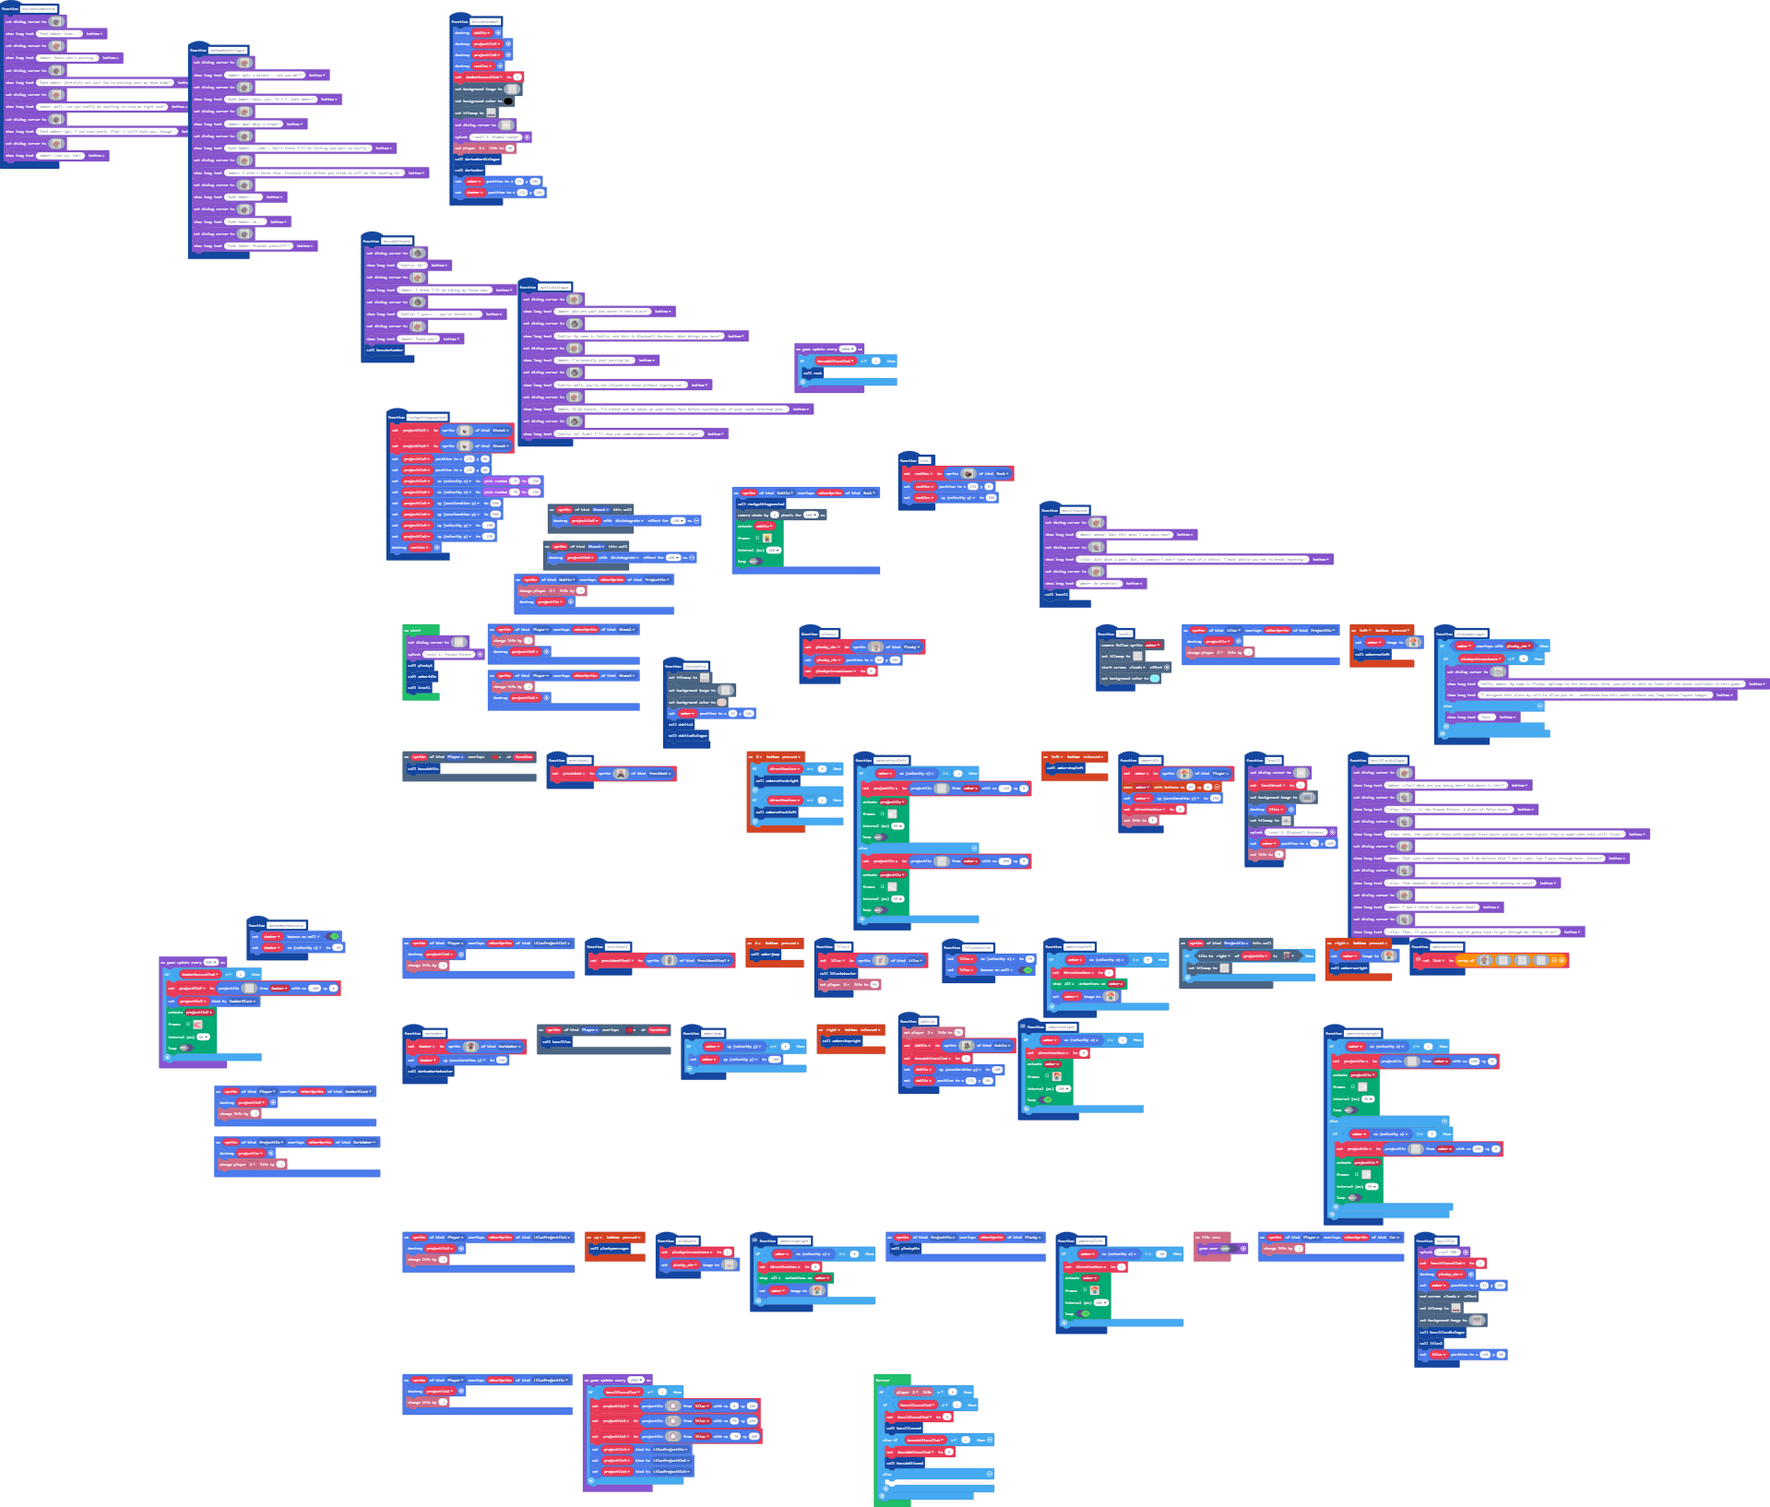
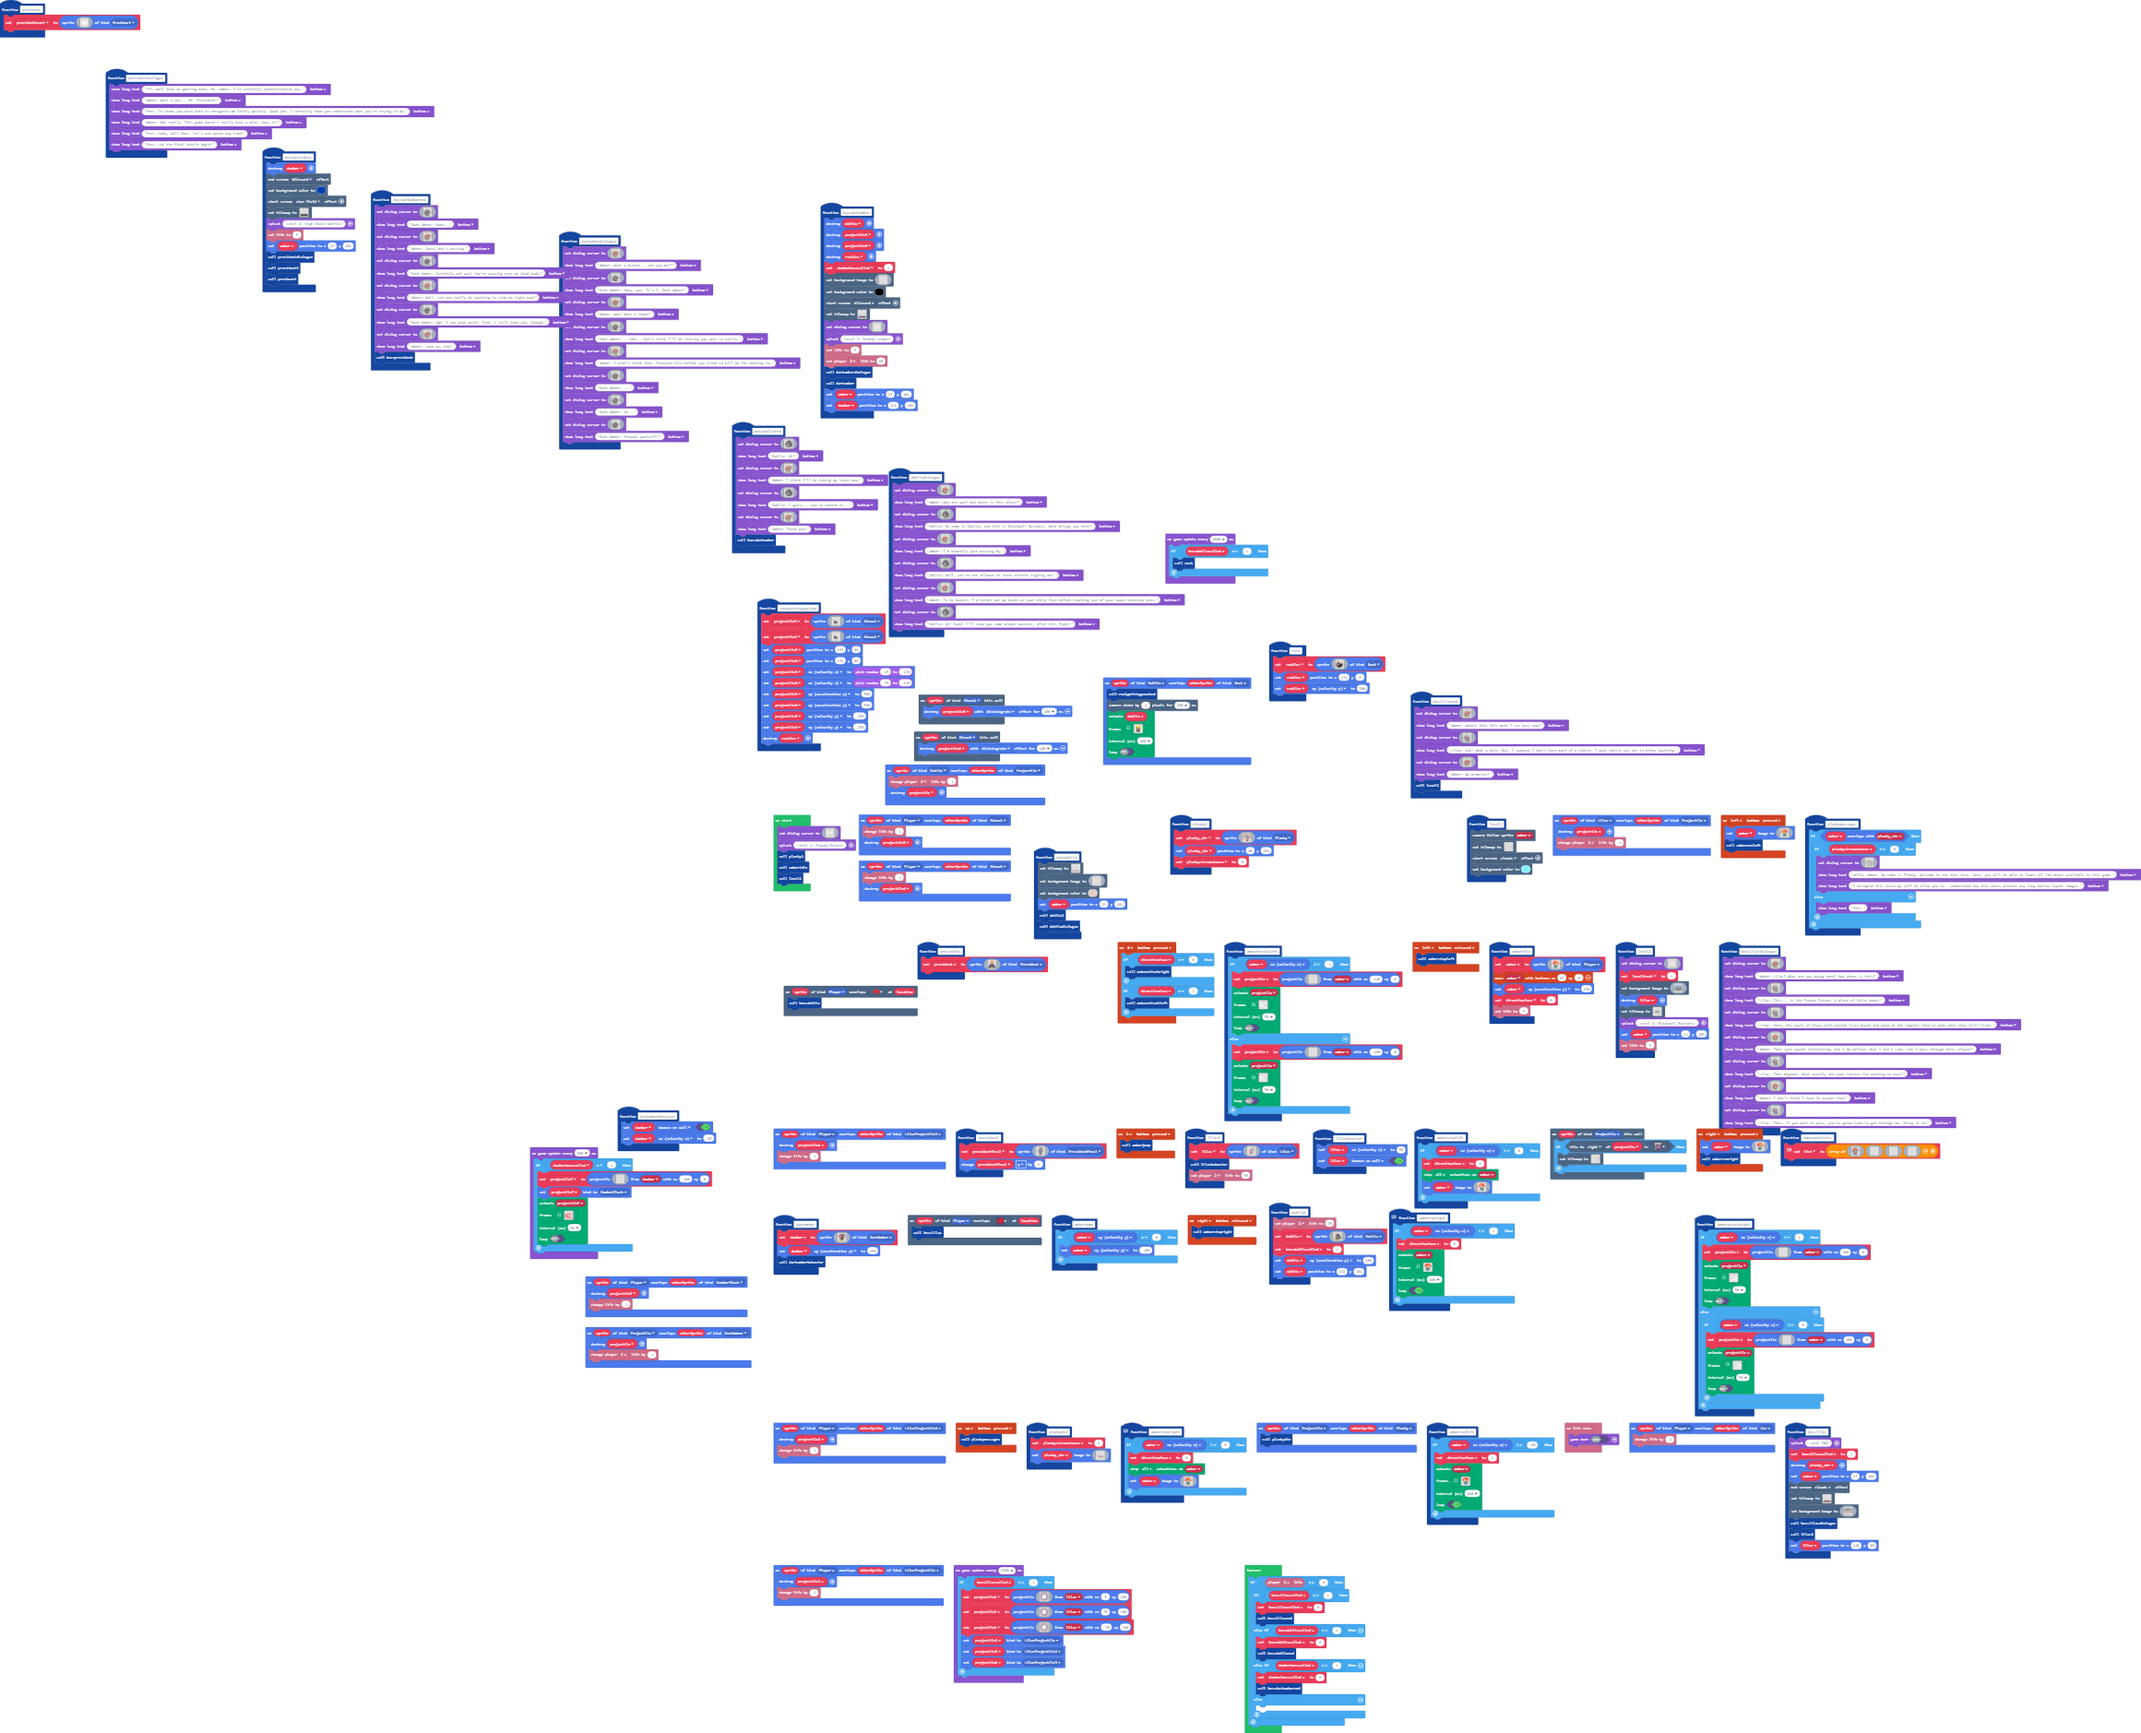
Update main.blocks, main.ts

Changed region(s): [[0.0, 0.0, 1.0, 1.0]]

diff --git a/main.ts b/main.ts
@@ -13,6 +13,7 @@ namespace SpriteKind {
     export const Stone1 = SpriteKind.create()
     export const Stone2 = SpriteKind.create()
     export const DamberSlash = SpriteKind.create()
+    export const PresHeart = SpriteKind.create()
 }
 namespace myTiles {
     //% blockIdentity=images._tile
@@ -626,6 +627,78 @@ function rockgettingpunched () {
     projectile5.vy = -150
     projectile6.vy = -150
     rockles.destroy()
+}
+function presheart () {
+    presidentheart = sprites.create(img`
+. . . . . . . . . . . . . . . . . . . . . . . . . . . . . . . . 
+. . . . . . . . . . . . . . . . . . . . . . . . . . . . . . . . 
+. d . . . . . . . . . . . . . . . . . . . . . . . . . . . . d . 
+. d d . . . . . . . . . . . . . . . . . . . . . . . . . . d d . 
+. . d d . . . . . . . . . . . . . . . . . . . . . . . . d d . . 
+. . d 1 d . . . . . . . . . . . . . . . . . . . . . . d 1 d . . 
+. . . 1 1 d . . . . . . . . . . . . . . . . . . . . d 1 1 . . . 
+. d . d 1 1 d . . . . . . . . . . . . . . . . . . d 1 1 d . d . 
+. d 1 1 . 1 1 d . . . . . . . . . . . . . . . . d 1 1 . 1 1 d . 
+. . d 1 1 1 1 1 d . . . . . . . . . . . . . . d 1 1 1 1 1 d . . 
+. . d 1 1 1 1 1 1 d . . . . . . . . . . . . d 1 1 1 1 1 1 d . . 
+. . . d 1 1 1 1 1 1 1 d . . . . . . . . d 1 1 1 1 1 1 1 d . . . 
+. d . . 1 1 1 1 1 1 1 1 1 d . . . . d 1 1 1 1 1 1 1 1 1 . . d . 
+. d 1 1 . 1 1 1 1 1 1 1 1 1 d d d d 1 1 1 1 1 1 1 1 1 . 1 1 d . 
+. . d 1 1 1 1 1 1 1 1 1 1 1 1 1 1 1 1 1 1 1 1 1 1 1 1 1 1 d . . 
+. . . d 1 1 1 1 1 1 1 1 1 1 1 1 1 1 1 1 1 1 1 1 1 1 1 1 d . . . 
+. d . . 1 1 1 1 1 1 1 1 1 1 1 1 1 1 1 1 1 1 1 1 1 1 1 1 . . d . 
+. . d 1 . 1 1 1 1 1 1 1 1 1 1 1 1 1 1 1 1 1 1 1 1 1 1 . 1 d . . 
+. . . d 1 1 1 1 1 1 1 1 1 1 1 1 1 1 1 1 1 1 1 1 1 1 1 1 d . . . 
+. . . . d 1 1 1 1 1 1 1 1 1 1 1 1 1 1 1 1 1 1 1 1 1 1 d . . . . 
+. . . . . d 1 1 1 1 1 1 1 1 1 1 1 1 1 1 1 1 1 1 1 1 d . . . . . 
+. . . . . . d 1 1 1 1 1 1 1 1 1 1 1 1 1 1 1 1 1 1 d . . . . . . 
+. . . . . . . d 1 1 1 1 1 1 1 1 1 1 1 1 1 1 1 1 d . . . . . . . 
+. . . . . . . . d 1 1 1 1 1 1 1 1 1 1 1 1 1 1 d . . . . . . . . 
+. . . . . . . . . d 1 1 1 1 1 1 1 1 1 1 1 1 d . . . . . . . . . 
+. . . . . . . . . . d 1 1 1 1 1 1 1 1 1 1 d . . . . . . . . . . 
+. . . . . . . . . . . d 1 1 1 1 1 1 1 1 d . . . . . . . . . . . 
+. . . . . . . . . . . . d 1 1 1 1 1 1 d . . . . . . . . . . . . 
+. . . . . . . . . . . . . d 1 1 1 1 d . . . . . . . . . . . . . 
+. . . . . . . . . . . . . . d 1 1 d . . . . . . . . . . . . . . 
+. . . . . . . . . . . . . . . d d . . . . . . . . . . . . . . . 
+. . . . . . . . . . . . . . . . . . . . . . . . . . . . . . . . 
+`, SpriteKind.PresHeart)
+}
+function presidentdialogue () {
+    game.showLongText("???: Well done on getting here, Ms. Amber. I've certainly underestimated you.", DialogLayout.Bottom)
+    game.showLongText("Amber: Wait a sec... Mr. President?", DialogLayout.Bottom)
+    game.showLongText("Pres: It seems you were able to recognize me fairly quickly. Good job. I certainly hope you understand what you're trying to do.", DialogLayout.Bottom)
+    game.showLongText("Amber: Not really. This game doesn't really have a plot, does it?", DialogLayout.Bottom)
+    game.showLongText("Pres: Haha, well then. Let's not waste any time!", DialogLayout.Bottom)
+    game.showLongText("Pres: Let the final battle begin!", DialogLayout.Bottom)
+}
+function bosspresident () {
+    damber.destroy()
+    effects.blizzard.endScreenEffect()
+    scene.setBackgroundColor(8)
+    effects.starField.startScreenEffect()
+    tiles.setTilemap(tiles.createTilemap(
[1 lines of base64/hex data omitted]
+            img`
+. . . . . . . . . . 
+. . . . . . . . . . 
+. . . . . . . . . . 
+. . . . . . . . . . 
+. . . . . . . . . . 
+. . . . . . . . . . 
+. . . . . . . . . . 
+2 2 2 2 2 2 2 2 2 2 
+2 2 2 2 2 2 2 2 2 2 
+`,
+            [myTiles.tile0,myTiles.tile1,myTiles.tile3,myTiles.tile5,myTiles.tile6,myTiles.tile7,myTiles.tile8,myTiles.tile9,myTiles.tile11,myTiles.tile12,myTiles.tile13,myTiles.tile14,myTiles.tile15,myTiles.tile16,myTiles.tile17,myTiles.tile18,myTiles.tile19,myTiles.tile20,myTiles.tile22,myTiles.tile23],
+            TileScale.Sixteen
+        ))
+    game.splash("Level 4: High Above America")
+    info.setLife(5)
+    amber.setPosition(23, 101)
+    presidentdialogue()
+    president2()
+    presheart()
 }
 function bossdahliaend () {
     game.setDialogCursor(img`
@@ -1850,6 +1923,7 @@ function bossdarkamberend () {
 . . . . . . . . . f b d d d d c f f f c c c c c c c c c c c c c c f c f . . . . . . . . . . . . . . 
 `)
     game.showLongText("Amber: Love ya, too!", DialogLayout.Bottom)
+    bosspresident()
 }
 sprites.onOverlap(SpriteKind.Dahlia, SpriteKind.Rock, function (sprite, otherSprite) {
     rockgettingpunched()
@@ -2492,6 +2566,7 @@ function president2 () {
 . . . . . . . . . . . . . . . . . . . . . . . . . . f c c f f f f f f f f f f f f f f f f f f f f f f f f f f f f f f f f f f f f f f f f f f c c f . . . . . . . . . . . . . . . . . . . . . . . . . . 
 . . . . . . . . . . . . . . . . . . . . . . . . . f c c f f f f f f f f f f f f f f f f f f f f f f f f f f f f f f f f f f f f f f f f f f f f c c f . . . . . . . . . . . . . . . . . . . . . . . . . 
 `, SpriteKind.PresidentFinal)
+    presidentfinal.y += 2
 }
 controller.A.onEvent(ControllerButtonEvent.Pressed, function () {
     amberjump()
@@ -2831,6 +2906,7 @@ function bossdarkamber () {
 . . . . . . . . . . . . . . . . . . . . . . . . . . . . . . . . . . . . . . . . . . . . . . . . . . . . . . . . . . . . . . . . . . . . . . . . . . . . . . . . . . . . . . . . . . . . . . . . . . . . . . . . . . . . . . . . . . . . . . . . . . . . . . . . . . . . . . . . . . . . . . . . . . . . . . . . . . . . . . . . 
 `)
     scene.setBackgroundColor(15)
+    effects.blizzard.startScreenEffect()
     tiles.setTilemap(tiles.createTilemap(
[1 lines of base64/hex data omitted]
             img`
@@ -2866,6 +2942,7 @@ function bossdarkamber () {
 . . . . . . . . . . . . . . . . 
 `)
     game.splash("Level 3: Shadow Leader")
+    info.setLife(5)
     info.player2.setLife(60)
     darkamberdialogue()
     darkamber()
@@ -4283,7 +4360,6 @@ let projectile2: Sprite = null
 let bosslilaccalled = 0
 let projectile3: Sprite = null
 let bossdahliacalled = 0
-let damber: Sprite = null
 let damberbosscalled = 0
 let list: Image[] = []
 let presidentfinal: Sprite = null
@@ -4294,8 +4370,10 @@ let lilac: Sprite = null
 let level2real = 0
 let directionface = 0
 let president: Sprite = null
-let amber: Sprite = null
 let projectile: Sprite = null
+let amber: Sprite = null
+let damber: Sprite = null
+let presidentheart: Sprite = null
 let rockles: Sprite = null
 let projectile6: Sprite = null
 let projectile5: Sprite = null
@@ -4473,6 +4551,9 @@ forever(function () {
         } else if (bossdahliacalled == 1) {
             bossdahliacalled = 0
             bossdahliaend()
+        } else if (damberbosscalled == 1) {
+            damberbosscalled = 0
+            bossdarkamberend()
         } else {
         	
         }
